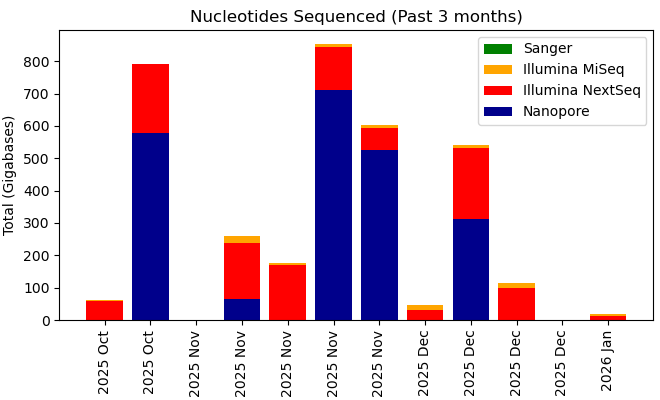
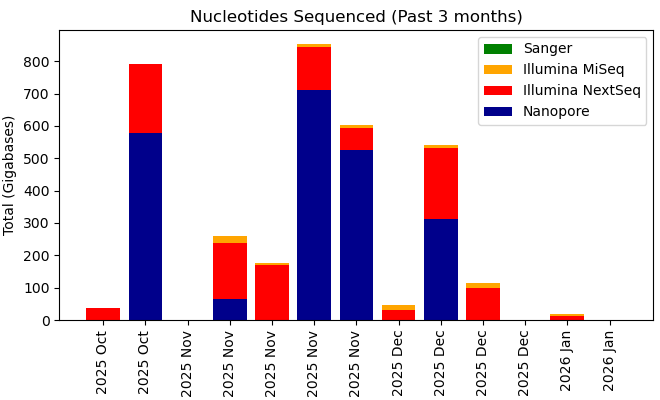
Your commit message here

diff --git a/krona/cgs.html b/krona/cgs.html
@@ -52,5 +52,8 @@ body {
   flex-direction: column;
 }
 </style>
-<H1>Genomics Facility Status: 07:00:12, 16/01/2026</H1>
-<marquee behavior="scroll" scrollamount="20" direction="left" bgcolor="lightgrey">ATGGCGTCGCGCGTCCGGTTAAAGCCGCTGAATTGTTCGCGTTTACCTTGCGTGTACGCGCAGGAAACACTGACGTTCTTACTGACGCAGAAGAAAACGTGCGTCAAAAATTACGTGCAGAAGGAGTGATGTAATGTCTAAAGGTAAAAAACGTTCTGGCGCTTGCCCTGGTCGTCCGCAGCCGTTGCAGATCGGAAGAGCGGTTCAGCAGGAATGCCGAGACCGATCTCGTATGCCGTCTTCTGCTTGA</marquee>
+<H1>Genomics Facility Status: 07:00:19, 17/01/2026</H1>
+<marquee behavior="scroll" scrollamount="20" direction="left" bgcolor="lightgrey">TCGTTCTTATTACCCTTCTGAATGTCACGCTGATTATTTTGACTTTGAGCGTATCGAGGCTCTTAAACCTGCTATTGAGGCTTGTGGCATTTCTACTCTTTCTCAATCCCCAATGCTTGGCTTCCATAAGCAGATGGATAACCGCATCAAGCTCTTGGAAGAGATTCTGTCTTTTCGTATGCAGGGCGTTGAGTTCGATAATGGTGATATGTATGTTGACGGCCATAAGGCTGCTTCTGACGTTCGTGATG</marquee>
+<TABLE BORDER=0><TR><TD><TABLE class="styled-table"><H3>GigaBases Sequenced</H3>
+<TR><TD><b>Platform</b></TD><TD><b>Week</b></TD><TD><b>Month</b></TD><TD><b>Year</b></TD><TD><b>Total</b></TD></TR><TR><TD>Illumina MiSeq</TD><TD>4.71</TD><TD>20.07</TD><TD>335.75</TD><TD>422.85</TD></TR><TR><TD>Illumina NextSeq</TD><TD>0.0</TD><TD>114.2</TD><TD>5360.79</TD><TD>6013.94</TD></TR><TR><TD>Nanopore PromethION</TD><TD>0.0</TD><TD>0.02</TD><TD>7023.87</TD><TD>10521.51</TD></TR><TR><TD>Sanger</TD><TD>0.0</TD><TD>0.0</TD><TD>0.02</TD><TD>0.04</TD></TR></TABLE></TD><TD><IMG SRC="fig1.png"><IMG SRC="fig2.png"></TD></TR><TR><TD><H3>No. Samples (No. Experiments)</H3>
+<TABLE class="styled-table"><TR><TD><b>Platform</b></TD><TD><b>Week</b></TD><TD><b>Month</b></TD><TD><b>Year</b></TD><TD><b>Total</b></TD></TR><TR><TD>Illumina MiSeq</TD><TD>36 (1)</TD><TD>146 (4)</TD><TD>1506 (64)</TD><TD>1965 (76)</TD></TR><TR><TD>Illumina NextSeq</TD><TD>0 (0)</TD><TD>71 (2)</TD><TD>1675 (68)</TD><TD>1877 (75)</TD></TR><TR><TD>Nanopore PromethION</TD><TD>0 (0)</TD><TD>1 (1)</TD><TD>458 (152)</TD><TD>797 (273)</TD></TR><TR><TD>Sanger</TD><TD>192 (192)</TD><TD>864 (864)</TD><TD>20544 (20544)</TD><TD>36839 (36839)</TD></TR></TABLE></TD><TD><IMG SRC="fig4.png"></TD></TR></TABLE></HTML>
